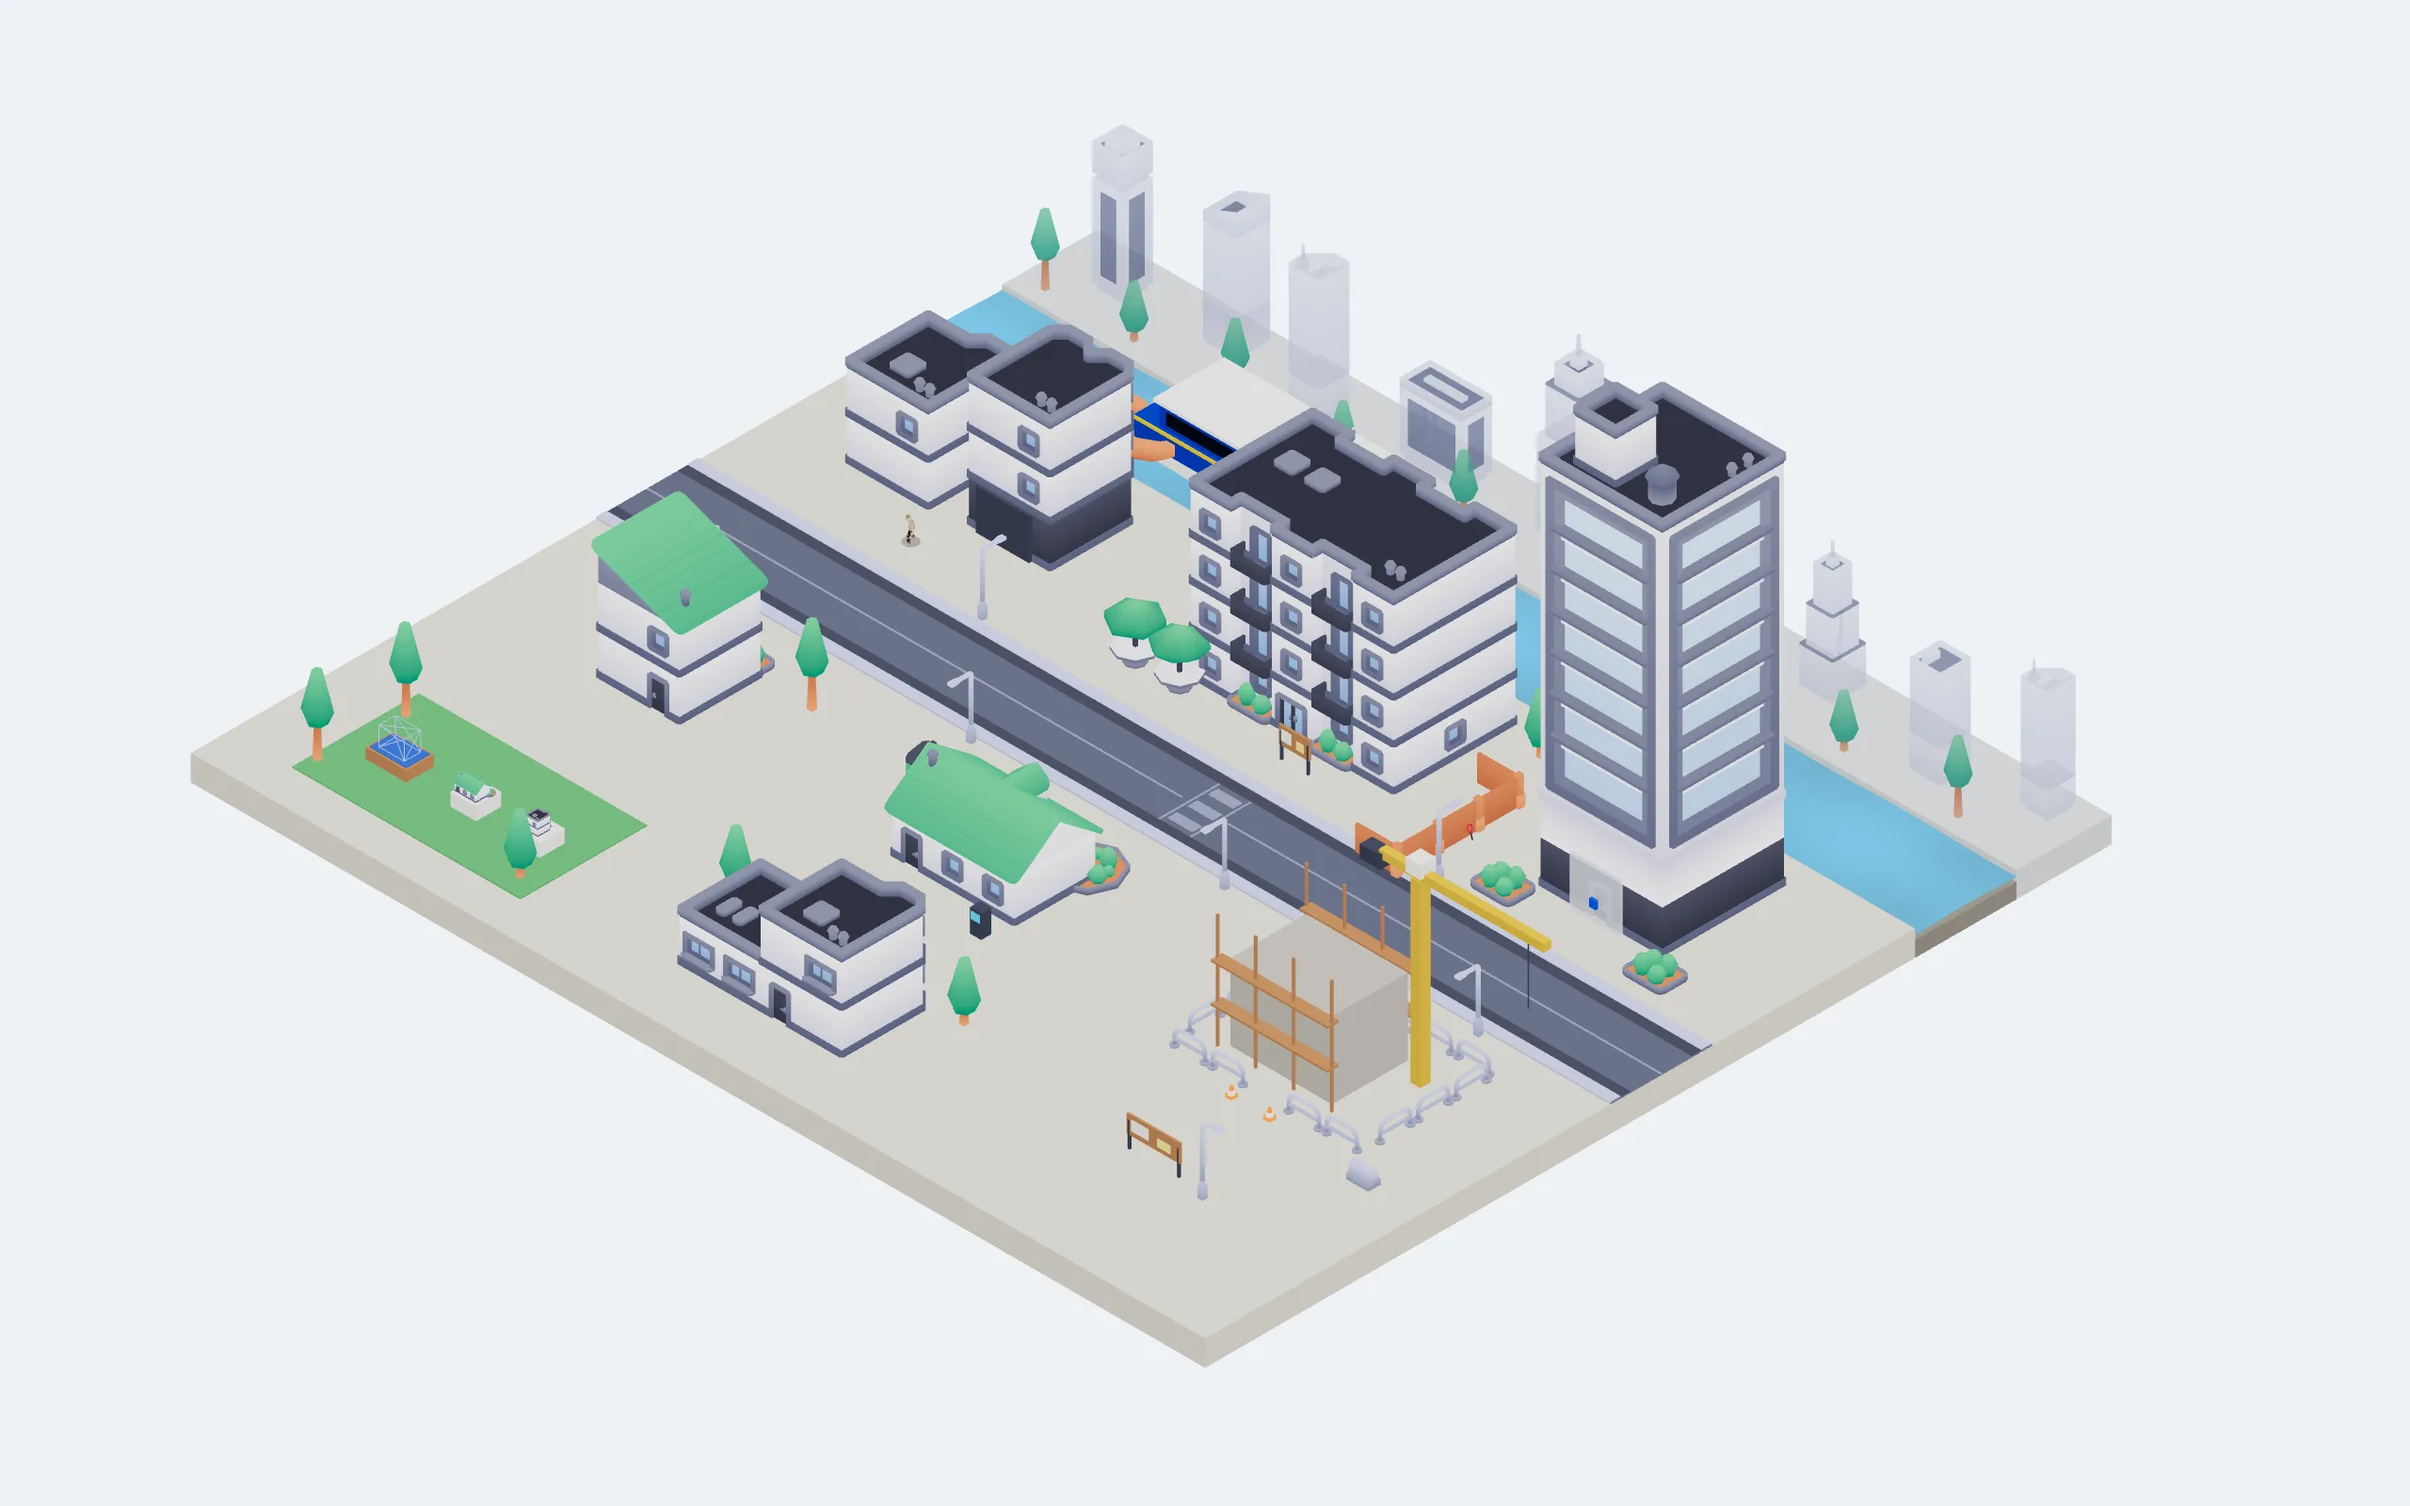
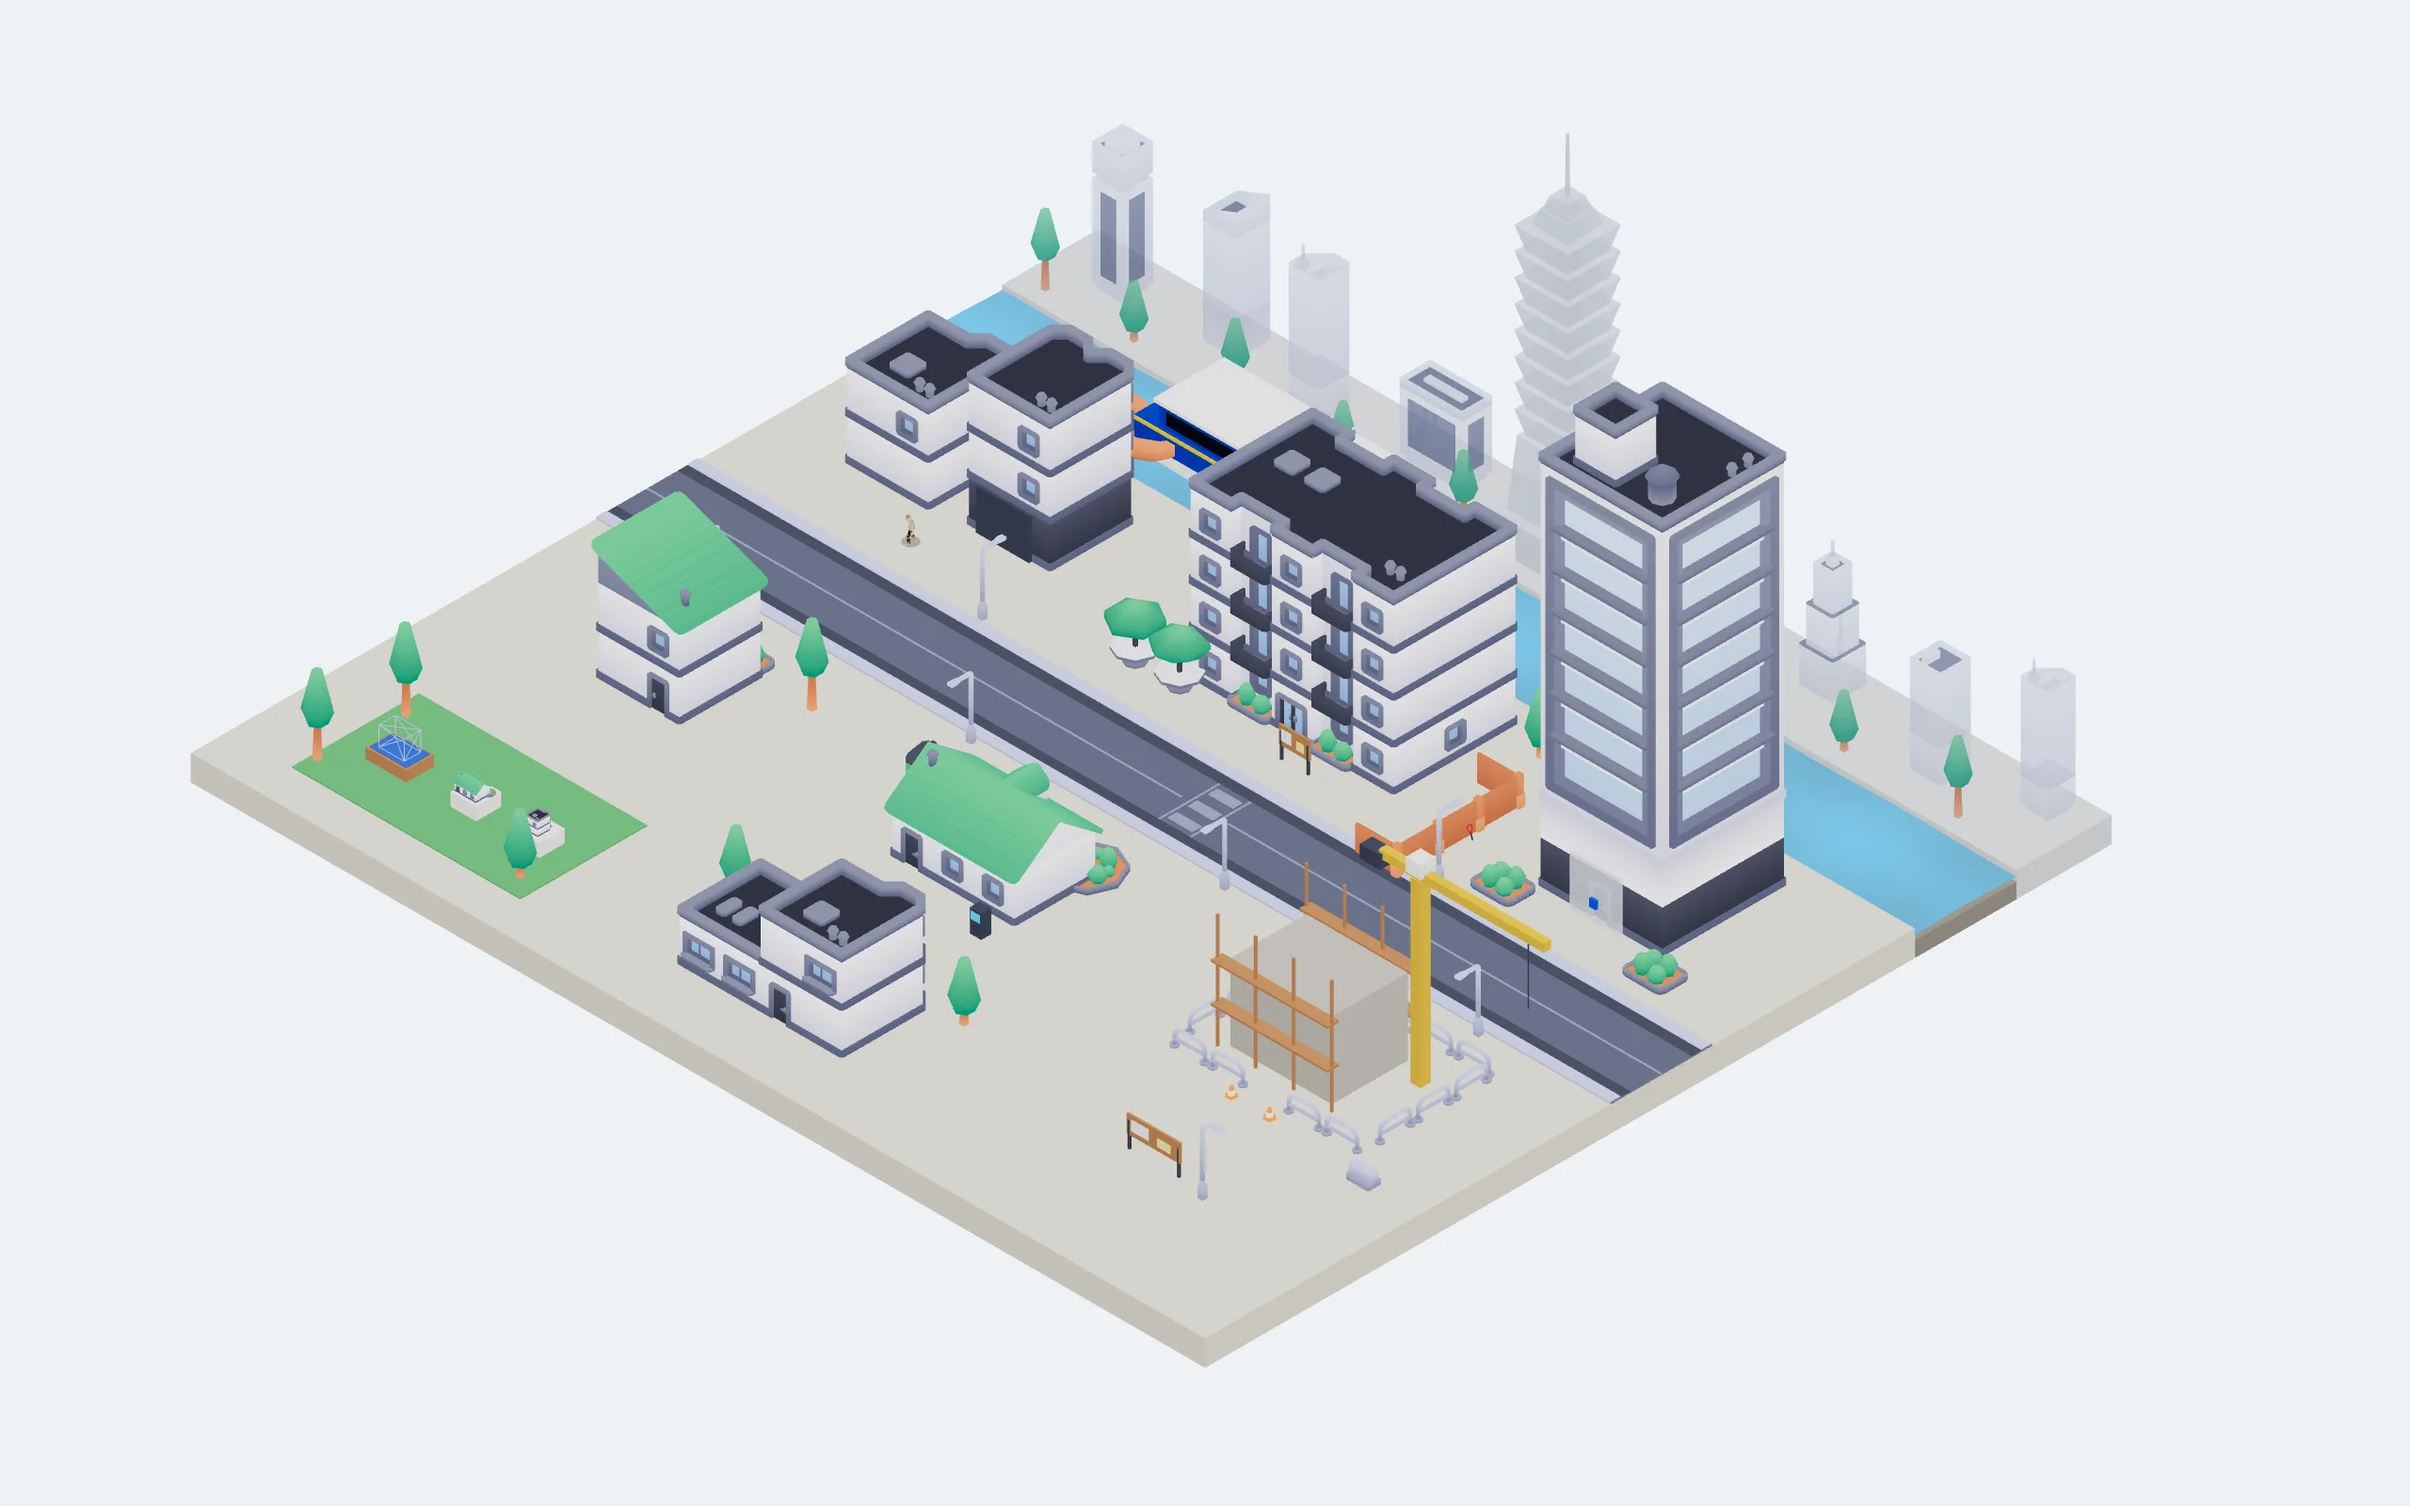
feat: make Taipei 101 the tallest building across the river
Replace the generic tall tower on Taipei's bank with Taipei 101, built
box-level in scene/Taipei101.tsx: podium, a base narrowing upwards, the
eight flared bamboo sections, the crown and the spire, about 28 m to
the tip, roughly twice its neighbours. Sky-tinted like the rest of the
far bank, one draw call, hidden with the skyline.

WORLD.md §4 rule 4 now says it covers employers and institutions, not
city landmarks; the generic tower had stretched it too far. The poster
is re-rendered with 101.

Changed region(s): [[0.625, 0.125, 0.6875, 0.3125]]

diff --git a/src/app/world/scene/Taipei101.tsx b/src/app/world/scene/Taipei101.tsx
@@ -1,0 +1,44 @@
+"use client";
+
+import { useMemo } from "react";
+import { BoxGeometry, CylinderGeometry, MeshBasicMaterial, type BufferGeometry } from "three";
+import { mergeParts, paint } from "./shading";
+
+/**
+ * Taipei 101, the tallest thing on Taipei's bank (WORLD.md §3). Box-level, like every hand-made
+ * prop: a podium, a base that narrows as it rises, the eight flared "bamboo" sections, a crown and
+ * the spire. About 28 m to the tip, roughly twice the towers round it, which keeps the real
+ * building's proportion to its neighbours and makes it readable from across the river.
+ *
+ * A landmark, not a brand: §4 rule 4 keeps employers' and institutions' marks out of the world; a
+ * city's skyline implies no endorsement. Tinted towards the sky like the rest of the far bank.
+ */
+const HAZE = "#c6d0e0";
+
+/** A square frustum (the cylinder's four sides turned to face the axes), widths in metres. */
+function frustum(bottom: number, top: number, height: number, y: number): BufferGeometry {
+    // A 4-sided cylinder of radius r is a square of side r·√2.
+    const geo = new CylinderGeometry(top / Math.SQRT2, bottom / Math.SQRT2, height, 4, 1);
+    geo.rotateY(Math.PI / 4);
+    geo.translate(0, y + height / 2, 0);
+    return paint(geo, HAZE);
+}
+
+function taipei101(): BufferGeometry {
+    const parts: BufferGeometry[] = [paint(new BoxGeometry(6.4, 2.4, 6.4).translate(0, 1.2, 0), HAZE)];
+    // The base narrows upwards, then eight sections each flare outwards, like stacked bamboo.
+    parts.push(frustum(4.8, 4.0, 5, 2.4));
+    const sectionH = 1.8;
+    for (let i = 0; i < 8; i++) parts.push(frustum(3.3, 4.2, sectionH, 7.4 + i * sectionH));
+    const crown = 7.4 + 8 * sectionH;
+    parts.push(frustum(2.8, 2.2, 1.1, crown));
+    parts.push(frustum(2.0, 1.4, 0.9, crown + 1.1));
+    parts.push(paint(new CylinderGeometry(0.1, 0.16, 4.2, 6).translate(0, crown + 2 + 2.1, 0), HAZE));
+    return mergeParts(parts);
+}
+
+export default function Taipei101({ x, z }: { x: number; z: number }) {
+    const geo = useMemo(() => taipei101(), []);
+    const mat = useMemo(() => new MeshBasicMaterial({ vertexColors: true, transparent: true, opacity: 0.82 }), []);
+    return <mesh geometry={geo} material={mat} position={[x, 0, z]} raycast={() => null} />;
+}

diff --git a/src/app/world/placements.ts b/src/app/world/placements.ts
@@ -107,14 +107,16 @@ export const PLACEMENTS: Placement[] = [
  * Taipei, on the far bank (§3: "visible, not walkable"), right across the river from the ferry
  * landing so it's in view while you're there, not only in the overview. Kenney's 188-triangle
  * low-detail towers and a row of trees, tinted towards the sky so the far side reads as another
- * place. Past tense only: nothing over there can be walked to or opened.
+ * place, with Taipei 101 (hand-made, scene/Taipei101.tsx) standing over them at TAIPEI_101.
+ * Past tense only: nothing over there can be walked to or opened.
  */
+export const TAIPEI_101 = { x: 0, z: -36.6 };
+
 export const SKYLINE: Placement[] = [
     { model: "low-detail-building-a", x: -35, z: -36.5, scale: 5 },
     { model: "low-detail-building-e", x: -27, z: -37.5, scale: 5.5 },
     { model: "low-detail-building-c", x: -19, z: -36, scale: 5 },
     { model: "low-detail-building-wide-a", x: -10, z: -37, scale: 5 },
-    { model: "low-detail-building-m", x: 0, z: -37.5, scale: 7 }, // the tall one, generic on purpose (§4 rule 4)
     { model: "low-detail-building-g", x: 10, z: -36.5, scale: 5.5 },
     { model: "low-detail-building-i", x: 20, z: -37.5, scale: 5.5 },
     { model: "low-detail-building-k", x: 30, z: -36, scale: 5 },

diff --git a/src/app/world/scene/Stage.tsx b/src/app/world/scene/Stage.tsx
@@ -2,7 +2,8 @@
 
 import { useEffect, useMemo, useState, type RefObject } from "react";
 import type { ThreeEvent } from "@react-three/fiber";
-import { PLACEMENTS, PROP_SOLIDS, SKYLINE } from "../placements";
+import { PLACEMENTS, PROP_SOLIDS, SKYLINE, TAIPEI_101 } from "../placements";
+import Taipei101 from "./Taipei101";
 import { FAR_BANK, RIVER, SLAB } from "../zones";
 import { OBJECTS, type WorldObject } from "../objects";
 import { InstancedMesh, Matrix4, MeshBasicMaterial, PlaneGeometry } from "three";
@@ -85,6 +86,7 @@ export default function Stage({
                 <meshBasicMaterial vertexColors color="#cfd6d9" />
             </mesh>
             {skyline && <KitInstances kit={kit} placements={SKYLINE} tint={SKY_TINT} />}
+            {skyline && <Taipei101 x={TAIPEI_101.x} z={TAIPEI_101.z} />}
             <Props still={still} />
 
             {OBJECTS.map((object) => (

diff --git a/WORLD.md b/WORLD.md
@@ -86,7 +86,8 @@ reward.
   an easy pace.
 - **The snake route is a suggestion, not a rail.** The block is open, so visitors can walk straight to
   any zone. Following it front to back simply tells the career in order.
-- **Taipei is past tense only.** The skyline and the E.SUN sign tell the visitor where he came from.
+- **Taipei is past tense only.** The skyline, with Taipei 101 standing over it, and the E.SUN sign
+  tell the visitor where he came from.
   Nothing anywhere suggests going back (`PLAN.md` §1, "Not on the site").
 
 | # | Zone | Objects (cards) | Source |
@@ -130,6 +131,8 @@ Rules:
 3. **No invented interiors and no invented screens.** Confidential objects stay closed.
 4. **No recognisable employer branding.** E.SUN's sign is text on a generic facade. There are no
    government crests or real logos. A playful world can't imply an endorsement nobody gave.
+   A city landmark is not a brand: Taipei 101 on the far bank implies nobody's endorsement, so
+   it is modelled as itself. The rule covers employers and institutions.
 5. **If BrisPulse's walking skeleton ships** (`PLAN.md` §5), it moves from the blueprint table to a
    building. That move is the reward for doing the real work.
 
@@ -925,6 +928,16 @@ Fixed from what the recordings showed:
     phone-sized viewport.
   - **The poster was re-rendered** with Taipei on its new bank, which also brings in the CityCat and
     the racquet.
+
+- **Taipei 101 is the tallest building on the far bank**, at Steven's request. It replaces the
+  generic tall tower that §4 rule 4 had been stretched to cover; that rule is about employers and
+  institutions, not city landmarks.
+  - `scene/Taipei101.tsx` builds it box-level: a podium, a base that narrows as it rises, the eight
+    flared bamboo sections, the crown and the spire. It's about 28 m to the tip, roughly twice the
+    towers round it.
+  - It's tinted like the rest of the far bank, merged into one draw call, and hidden with the
+    skyline.
+  - The poster was re-rendered with it.
 
 ### To launch (all content or devices, no code)
 
